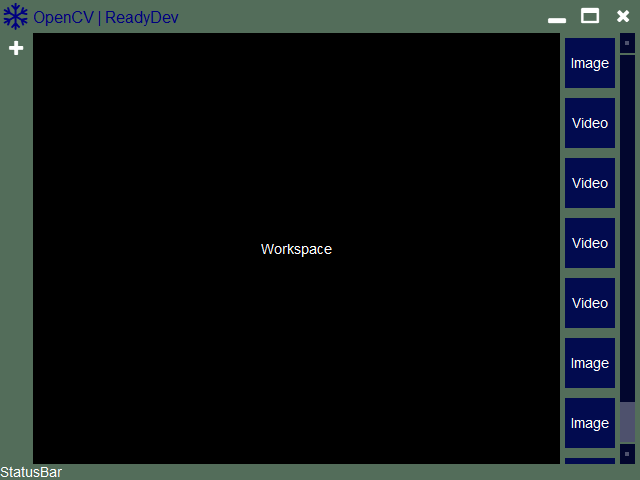
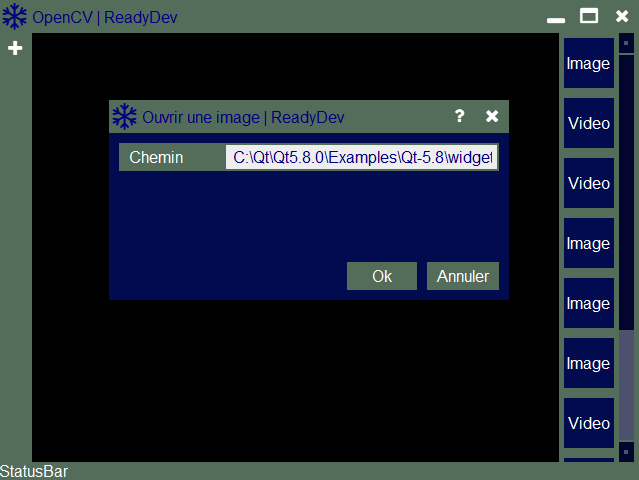
Initial Commit

diff --git a/qt/win/data/css/style.css b/qt/win/data/css/style.css
@@ -40,8 +40,8 @@ QLabel#GLabel2 {
 /*-----------------------------------------------*/
 /* GLineEdit */
 QLineEdit#GLineEdit {
-    background-color: #dddddd;
-    padding: 0px 5px 0px 5px;
+    background-color: #eeeeee;
+    padding: 2px 5px 2px 5px;
     color: navy;
 }
 /*-----------------------------------------------*/
@@ -86,6 +86,7 @@ QPushButton:hover {
 QFrame#GRow {
     background-color: transparent;
     border: 2px solid #536d5a;
+    margin: 10px;
 }
 /* QScrollBar */
 QScrollBar:vertical {

diff --git a/qt/code/GProject/src/manager/GDialogImageOpen.cpp b/qt/code/GProject/src/manager/GDialogImageOpen.cpp
@@ -2,13 +2,18 @@
 #include "GDialogImageOpen.h"
 #include "GTitle.h"
 #include "GButtonMap.h"
+#include "GRow.h"
 //===============================================
 GDialogImageOpen::GDialogImageOpen(QWidget* parent) :
 GDialog(parent) {
 	GTitle* lTitle = GTitle::Create("DIALOG");
+
+	GRow* lPath = GRow::Create("DEFAULT");
+	lPath->setLabelText(tr("Chemin:"));
 	GButtonMap* lButtonMap = GButtonMap::Create("OK_CANCEL");
 
 	m_frameLayout->addWidget(lTitle);
+	m_frameLayout->addWidget(lPath);
 	m_buttonMapLayout->addWidget(lButtonMap);
 
 	setWindowFlags(Qt::FramelessWindowHint | Qt::Dialog);

diff --git a/qt/code/GProject/src/manager/GWindowDefault.cpp b/qt/code/GProject/src/manager/GWindowDefault.cpp
@@ -100,7 +100,15 @@ void GWindowDefault::slotWindowFullScreen() {
 //===============================================
 void GWindowDefault::slotModuleImageAction(QString action) {
 	GDialog* lImageOpen = GDialog::Create("IMAGE_OPEN", this);
-	lImageOpen->exec();
+	int lOk = lImageOpen->exec();
+
+	if(lOk == QDialog::Accepted) {
+		GPrint::Instance()->print("QDialog::Accepted");
+	}
+	else if(lOk == QDialog::Rejected) {
+		GPrint::Instance()->print("QDialog::Rejected");
+	}
+
 	delete lImageOpen;
 }
 //===============================================
